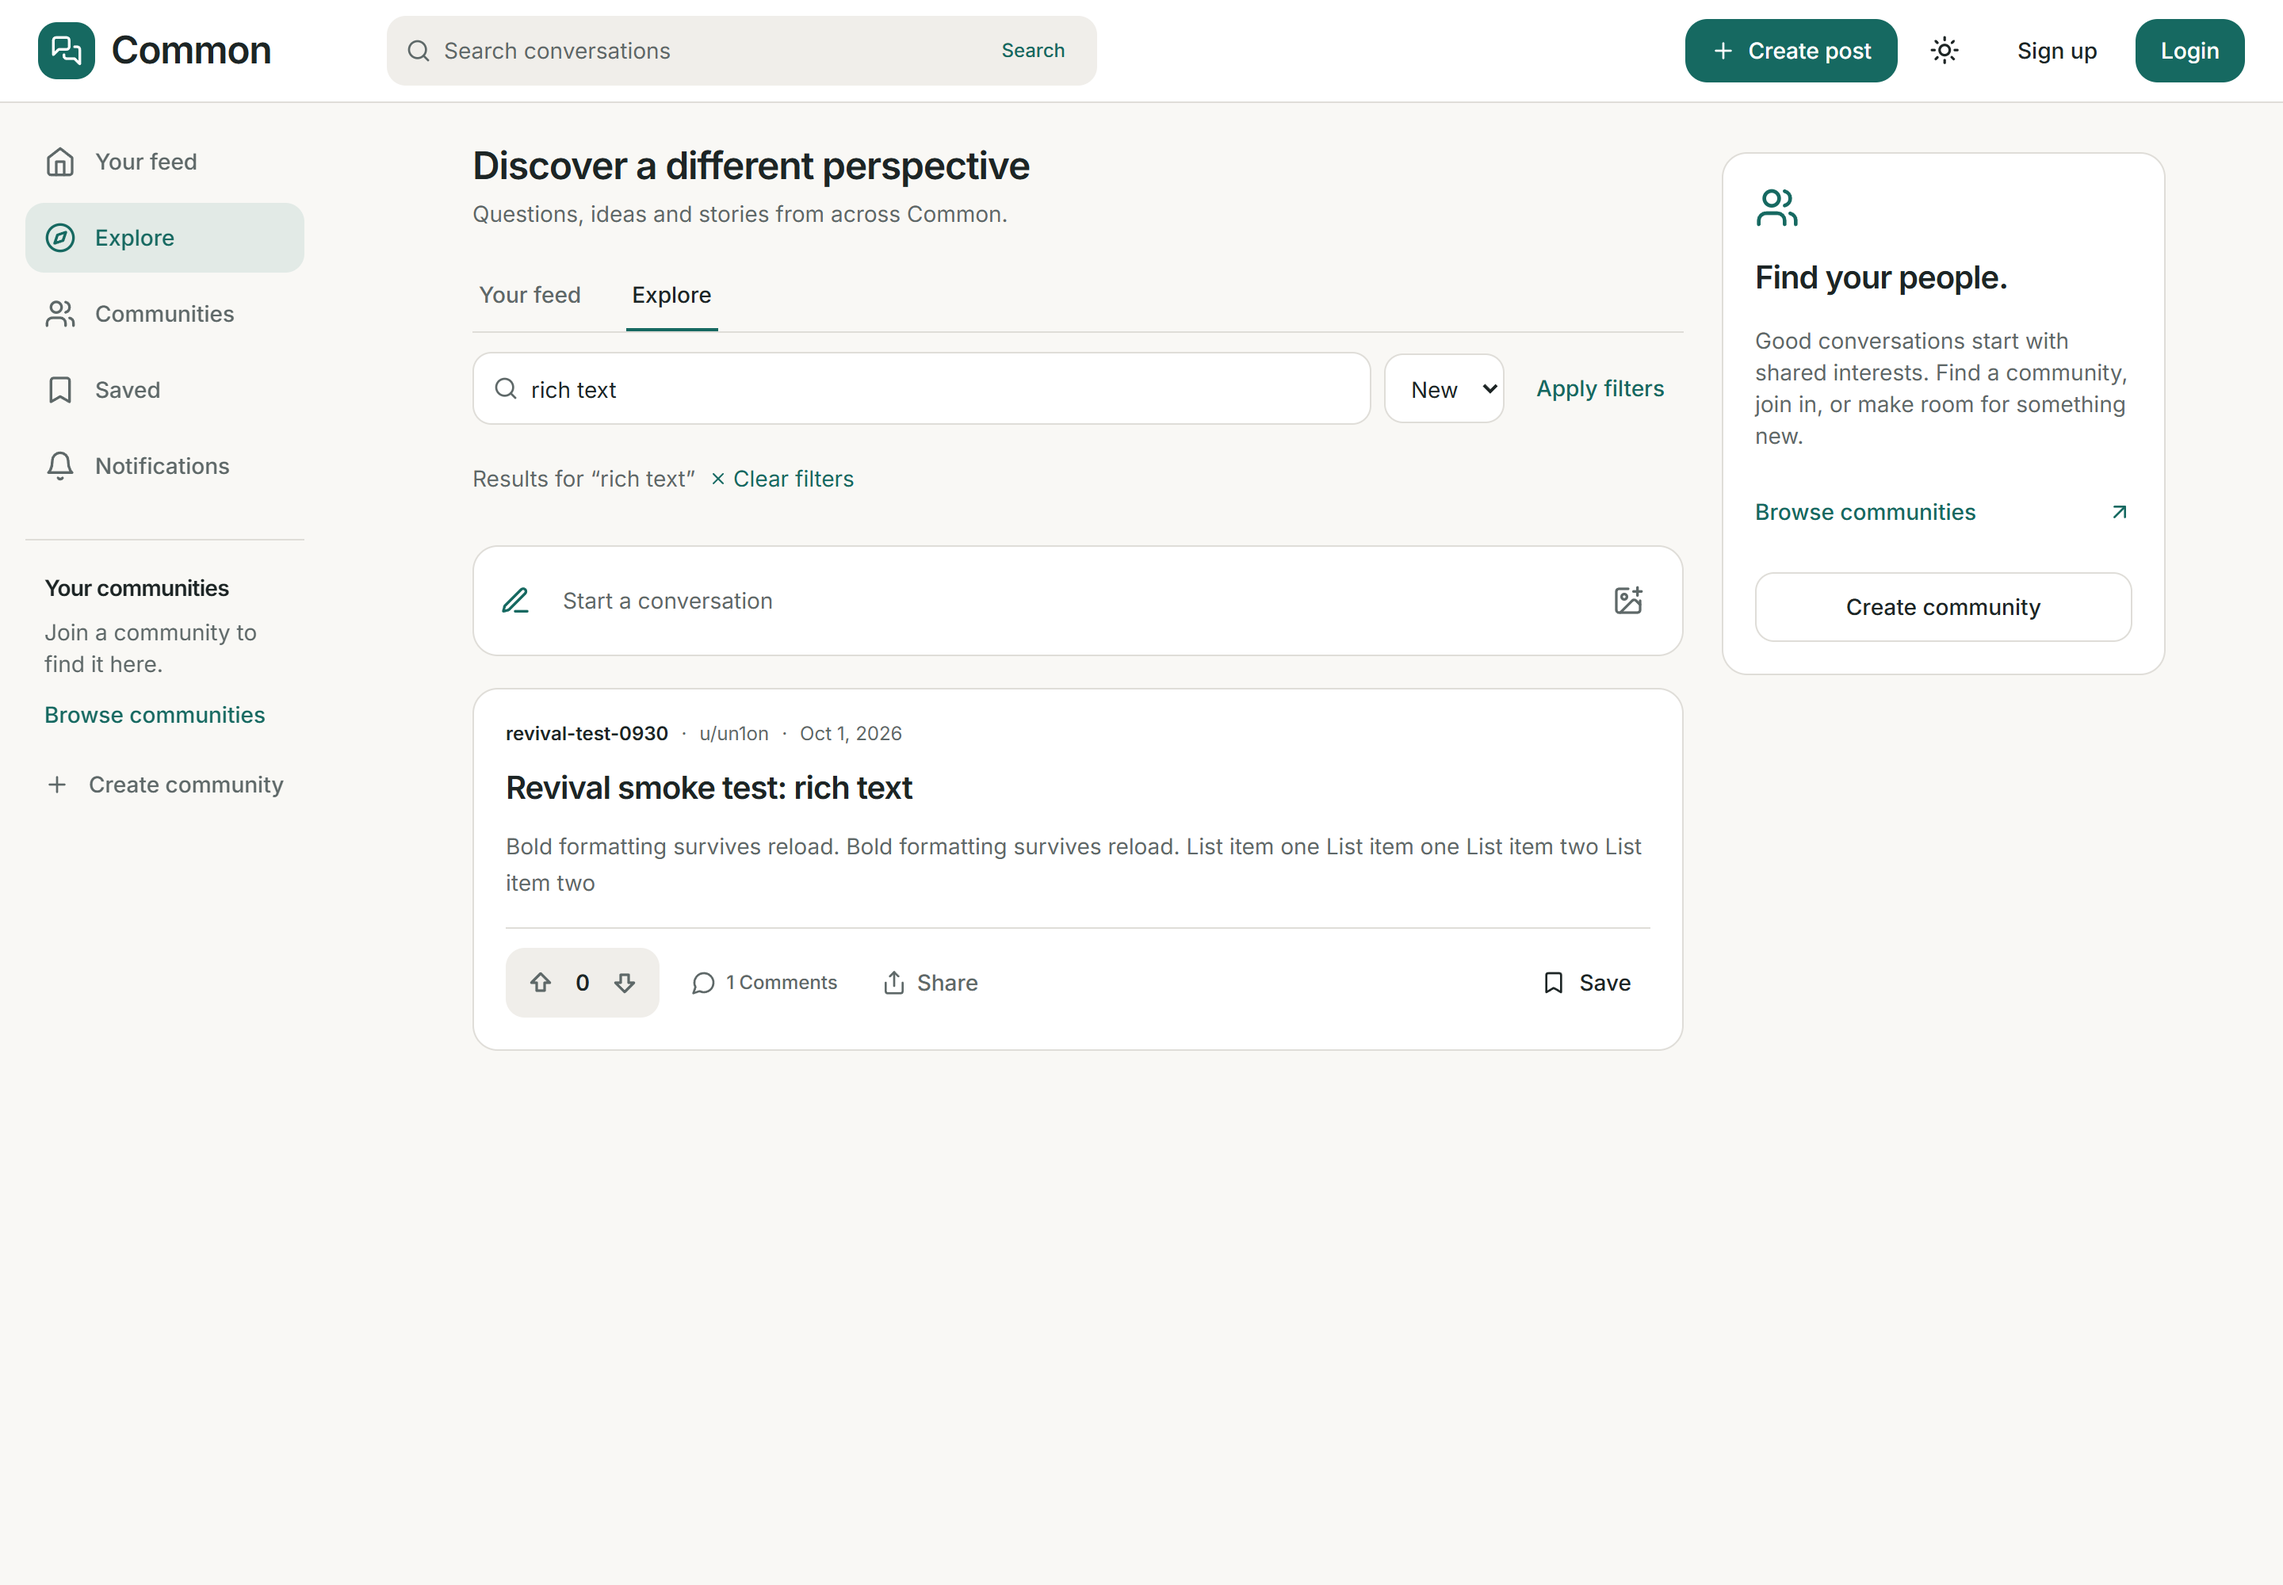
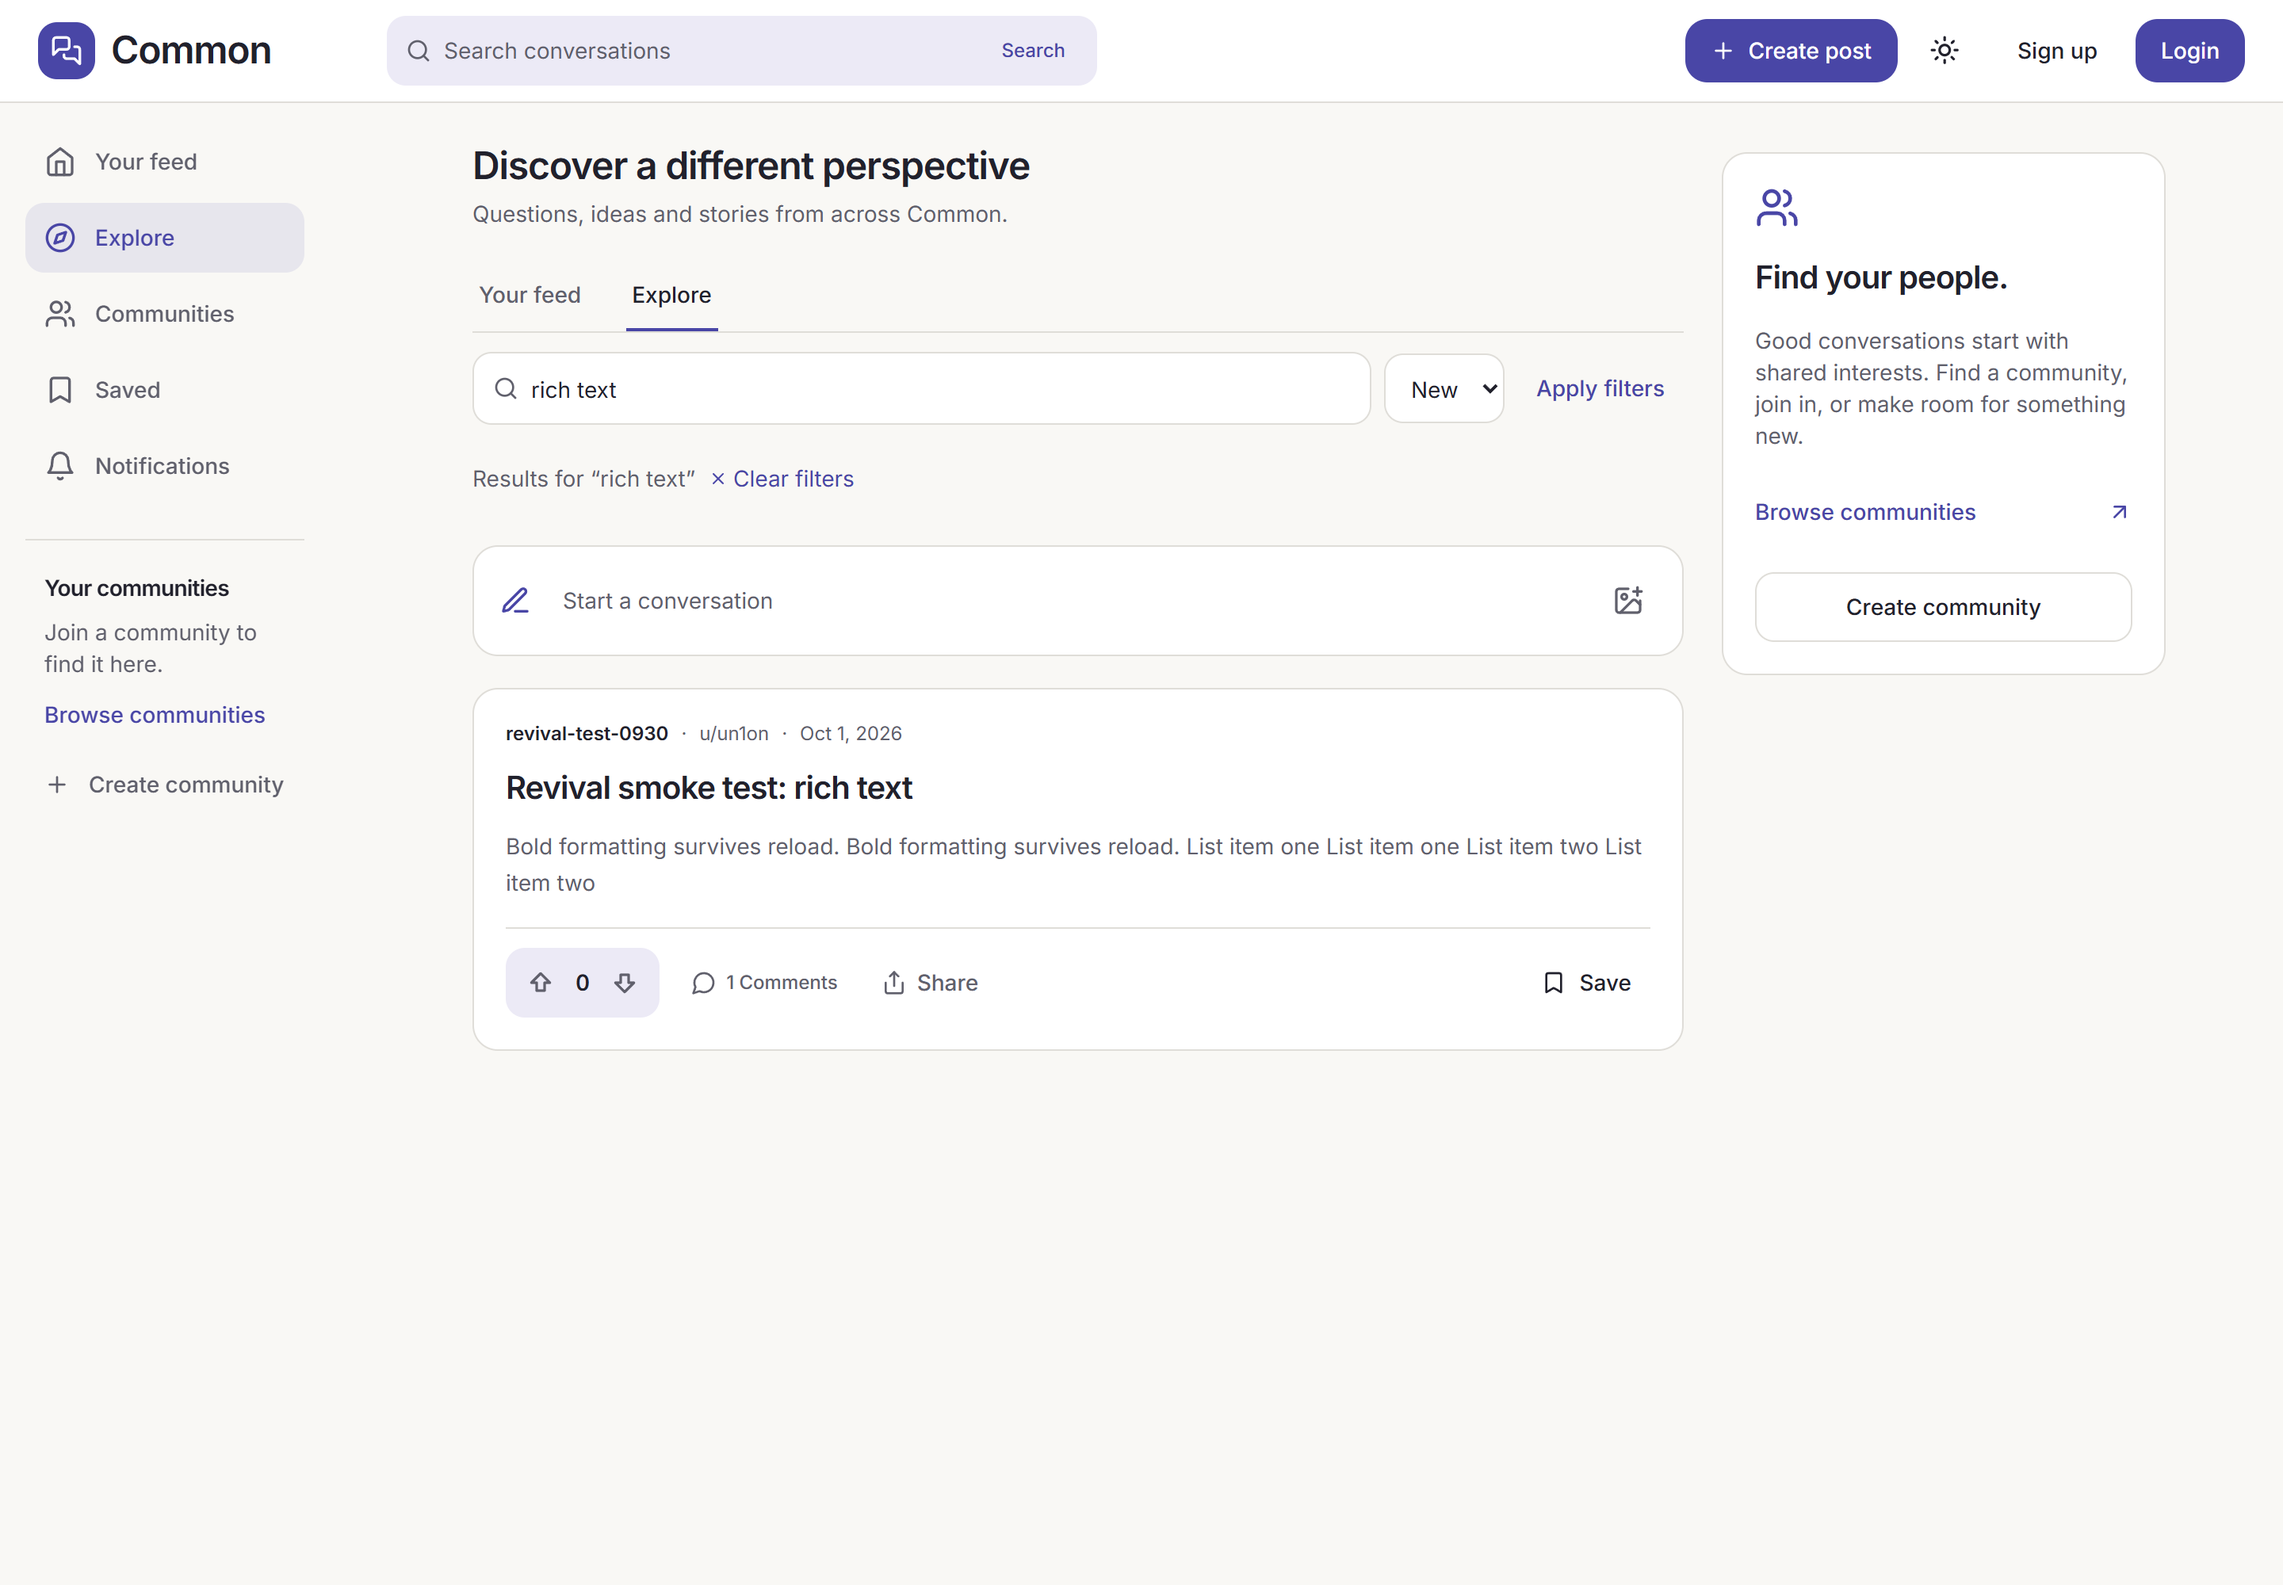
Refresh project screenshots with their distinct color palettes

diff --git a/src/content/projects/common.md b/src/content/projects/common.md
@@ -7,7 +7,7 @@ category: Full-stack development
 period: Personal software project
 technologies: [Next.js, TypeScript, PostgreSQL, Prisma, Tailwind CSS]
 thumbnail: ../../assets/common.png
-thumbnailAlt: Common’s public search results showing its teal identity, desktop community navigation, feed filters, and a rich-text test post.
+thumbnailAlt: Common’s public search results showing its indigo and lavender identity, desktop community navigation, feed filters, and a rich-text test post.
 caption: A current capture of Common’s public interface, filtered to a real rich-text test post. The screen shows desktop navigation, search, voting, and saved-post controls.
 sourceVisibility: public
 repositoryUrl: https://github.com/NgoBenny/common
@@ -60,7 +60,7 @@ These details also matter for navigation and empty states. Invalid pagination fa
 
 ### Make the same workflows usable across devices
 
-The redesign gives Common warm neutral surfaces, restrained teal accents, and light and dark themes. Desktop browsing uses a navigation rail and a contextual community panel. On smaller screens, navigation moves to a bottom bar exposing the joined feed, Explore, Post, Saved, and Notifications; search gets its own header row where space is limited.
+The redesign gives Common cream surfaces, indigo and lavender accents, and light and dark themes. Desktop browsing uses a navigation rail and a contextual community panel. On smaller screens, navigation moves to a bottom bar exposing the joined feed, Explore, Post, Saved, and Notifications; search gets its own header row where space is limited.
 
 A shared composer handles creation and editing, with title, rich text, attachment preview, and community flair. Failed submissions preserve the draft, and an upload in progress disables submission. Kinde login explicitly offers sign-in choices, while the account menu exposes Switch account without discarding normal session persistence. These changes make existing functionality easier to reach while retaining the server-side authorization boundary.
 

diff --git a/src/content/projects/nba-win-probability.md b/src/content/projects/nba-win-probability.md
@@ -6,8 +6,8 @@ order: 1
 category: Real-time systems / Machine learning
 period: June 2026 — Present
 technologies: [Python, Flask, WebSockets, scikit-learn, SQLite]
-thumbnail: ../../assets/nba.jpg
-thumbnailAlt: NBA dashboard showing a replay, two teams’ scores, win probabilities, and a probability trace.
+thumbnail: ../../assets/nba.png
+thumbnailAlt: NBA dashboard in its cobalt and ice-blue theme, showing a historical replay, team scores, win probabilities, and a probability trace.
 caption: An application screenshot in historical replay mode. The displayed game state illustrates the interface; benchmark results come from the separate frozen evaluation.
 sourceVisibility: private
 highlights:

diff --git a/src/content/projects/ufc-win-predictor.md b/src/content/projects/ufc-win-predictor.md
@@ -7,7 +7,7 @@ category: Applied machine learning
 period: July 2026 — Present
 technologies: [Python, Flask, scikit-learn, XGBoost, Docker]
 thumbnail: ../../assets/ufc.png
-thumbnailAlt: UFC prediction dashboard with event selection, fighter search, matchup controls, and a fight-card section.
+thumbnailAlt: UFC prediction dashboard in its bone and burgundy theme, with event selection, fighter search, matchup controls, and a loaded fight card.
 caption: An application screenshot showing the event and fighter-analysis interface. Displayed forecasts are research outputs; they are not evidence of future predictive performance.
 sourceVisibility: private
 highlights:
